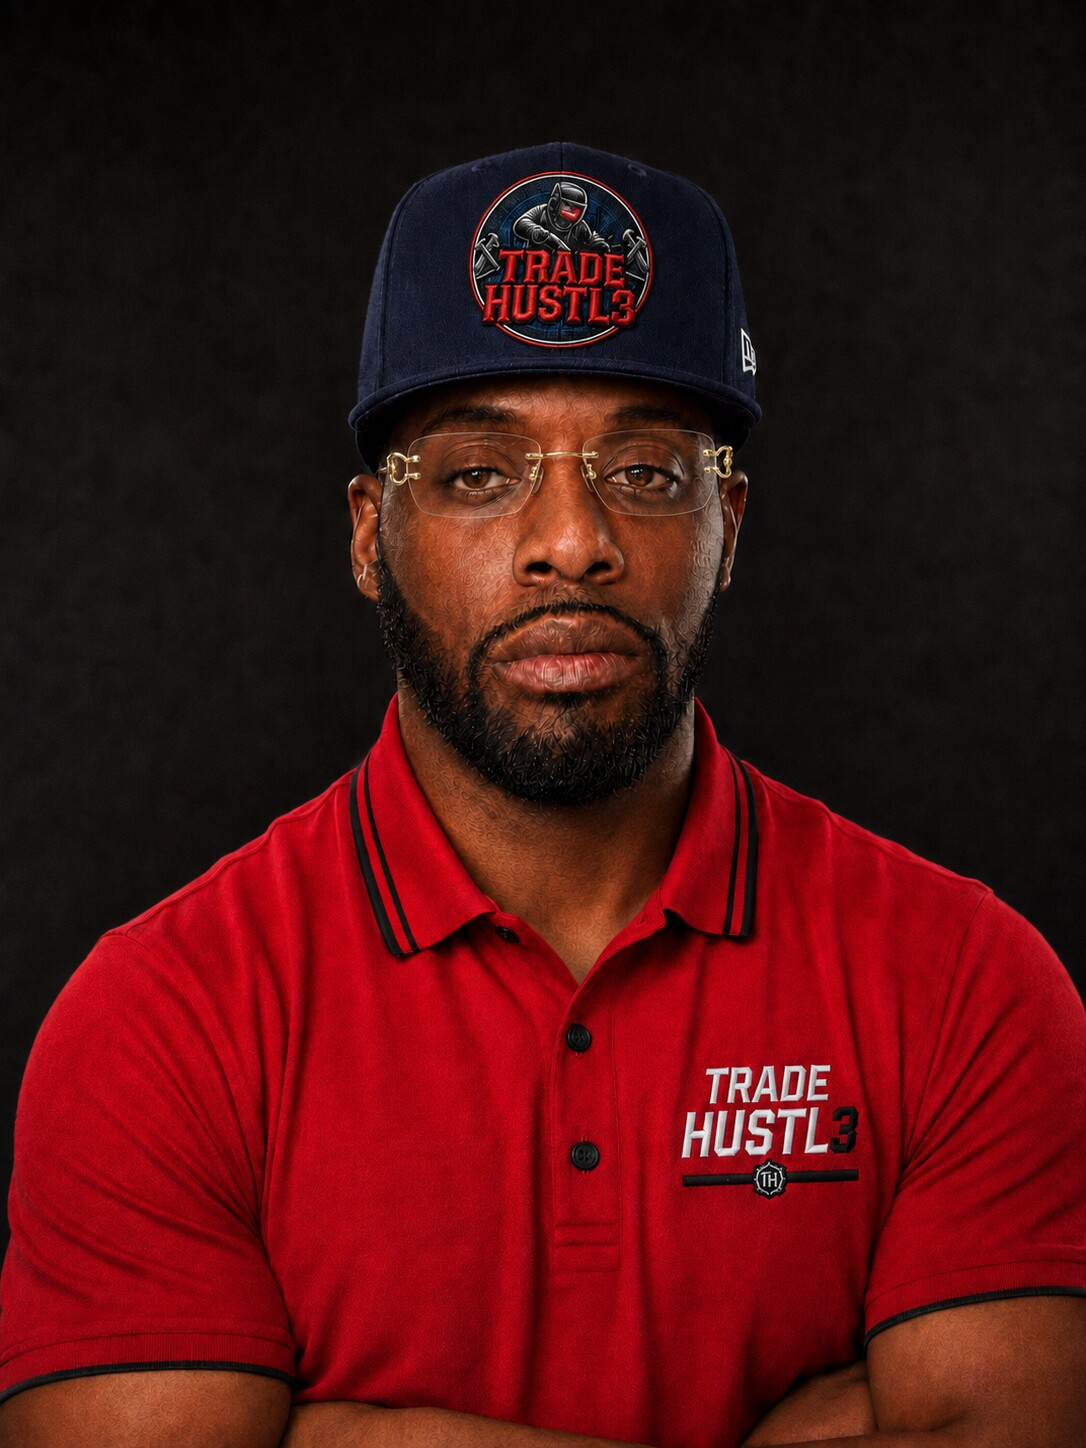
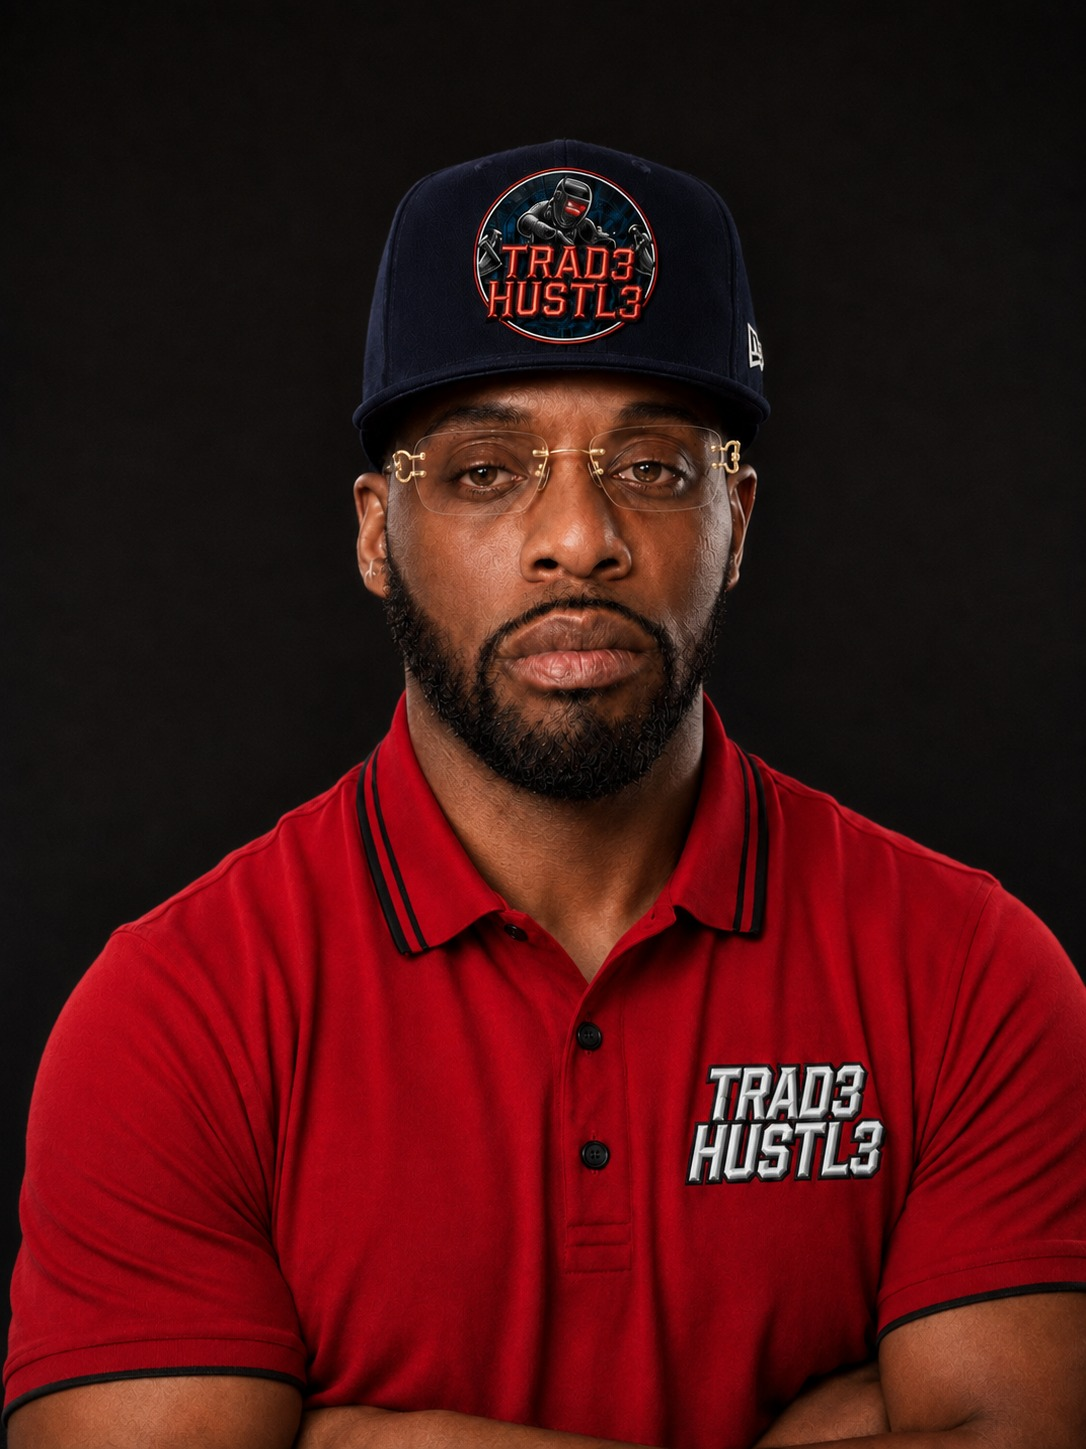
Set final official author portrait

Changed region(s): [[0.0, 0.0932, 1.0, 1.0], [0.9116, 0.8391, 1.0, 0.9012], [0.3343, 0.1554, 0.3646, 0.2486]]

diff --git a/app/book/page.tsx b/app/book/page.tsx
@@ -186,7 +186,7 @@ export default function BookPage() {
             src="/zachary-ellis-author.jpg"
             alt="Zachary Ellis, author of TRADE HUSTL3"
             width={1086}
-            height={1448}
+            height={1449}
           />
           <p>Official back-cover portrait</p>
         </div>
